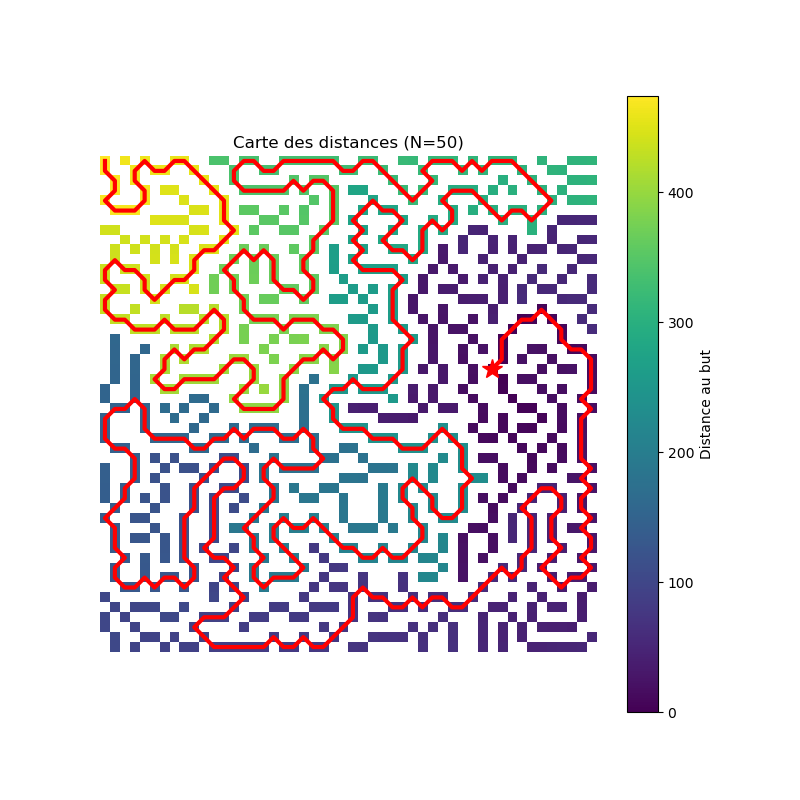
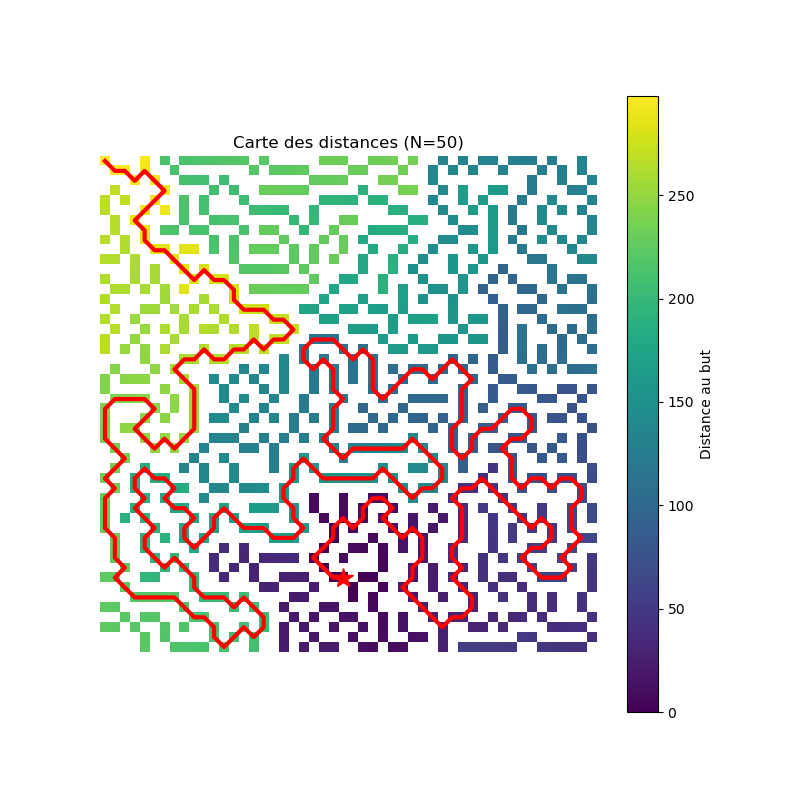
first commit

diff --git a/maze_genetique.py b/maze_genetique.py
@@ -73,17 +73,47 @@ class GeneticSolver :
         Plus elle est basse mieux c'est
         """
         penalties = 0
+        curr_i, curr_j = self.start
         (end_i, end_j), steps = self.endCell(genome)
         (goal_i, goal_j) = self.goal
+
+        visited = set()
+        visited.add((curr_i, curr_j))
+        
+        steps = 0
+        backtracks = 0
+        
+        # On simule le chemin manuellement ici pour avoir le contrôle
+        for gene in genome:
+            di, dj = self.directions[gene]
+            next_i, next_j = curr_i + di, curr_j + dj
+            
+            # Vérification Mur / Hors Map
+            if not (0 <= next_i < self.N and 0 <= next_j < self.N and self.matrix[next_i, next_j] != 0):
+                # On s'arrête net si on tape un mur
+                break
+            
+            # Vérification Backtracking (Votre idée)
+            if (next_i, next_j) in visited:
+                backtracks += 1
+            else:
+                visited.add((next_i, next_j))
+            
+            curr_i, curr_j = next_i, next_j
+            steps += 1
+            
+            if (curr_i, curr_j) == self.goal:
+                break
         
         #pour savoir notre distance au but, on utilise la distance de manhattan, c'est ce qu'il y à de plus précis sur une grille
         distance = abs(end_i - goal_i) + abs(end_j - goal_j)
 
         penalties += distance * 0.2
+        penalties += backtracks
         if distance == 0:
-            penalties -= 50
+            penalties -= 500
         else :
-            penalties += 10
+            penalties += 20
 
         murs_autour = 0
         card =[

diff --git a/main.py b/main.py
@@ -142,9 +142,9 @@ def main():
     print("\n--- Lancement de l'Algorithme Génétique Complet ---")
     
     # HYPERPARAMETR§ES
-    MAX_GEN = 500
-    TS = 0.5
-    TM = 0.3
+    MAX_GEN = 700
+    TS = 0.4
+    TM = 0.1
     POPULATION_SIZE = 100
     GENOME_LENGTH = N * 3
     USE_PHEROMONES = True
